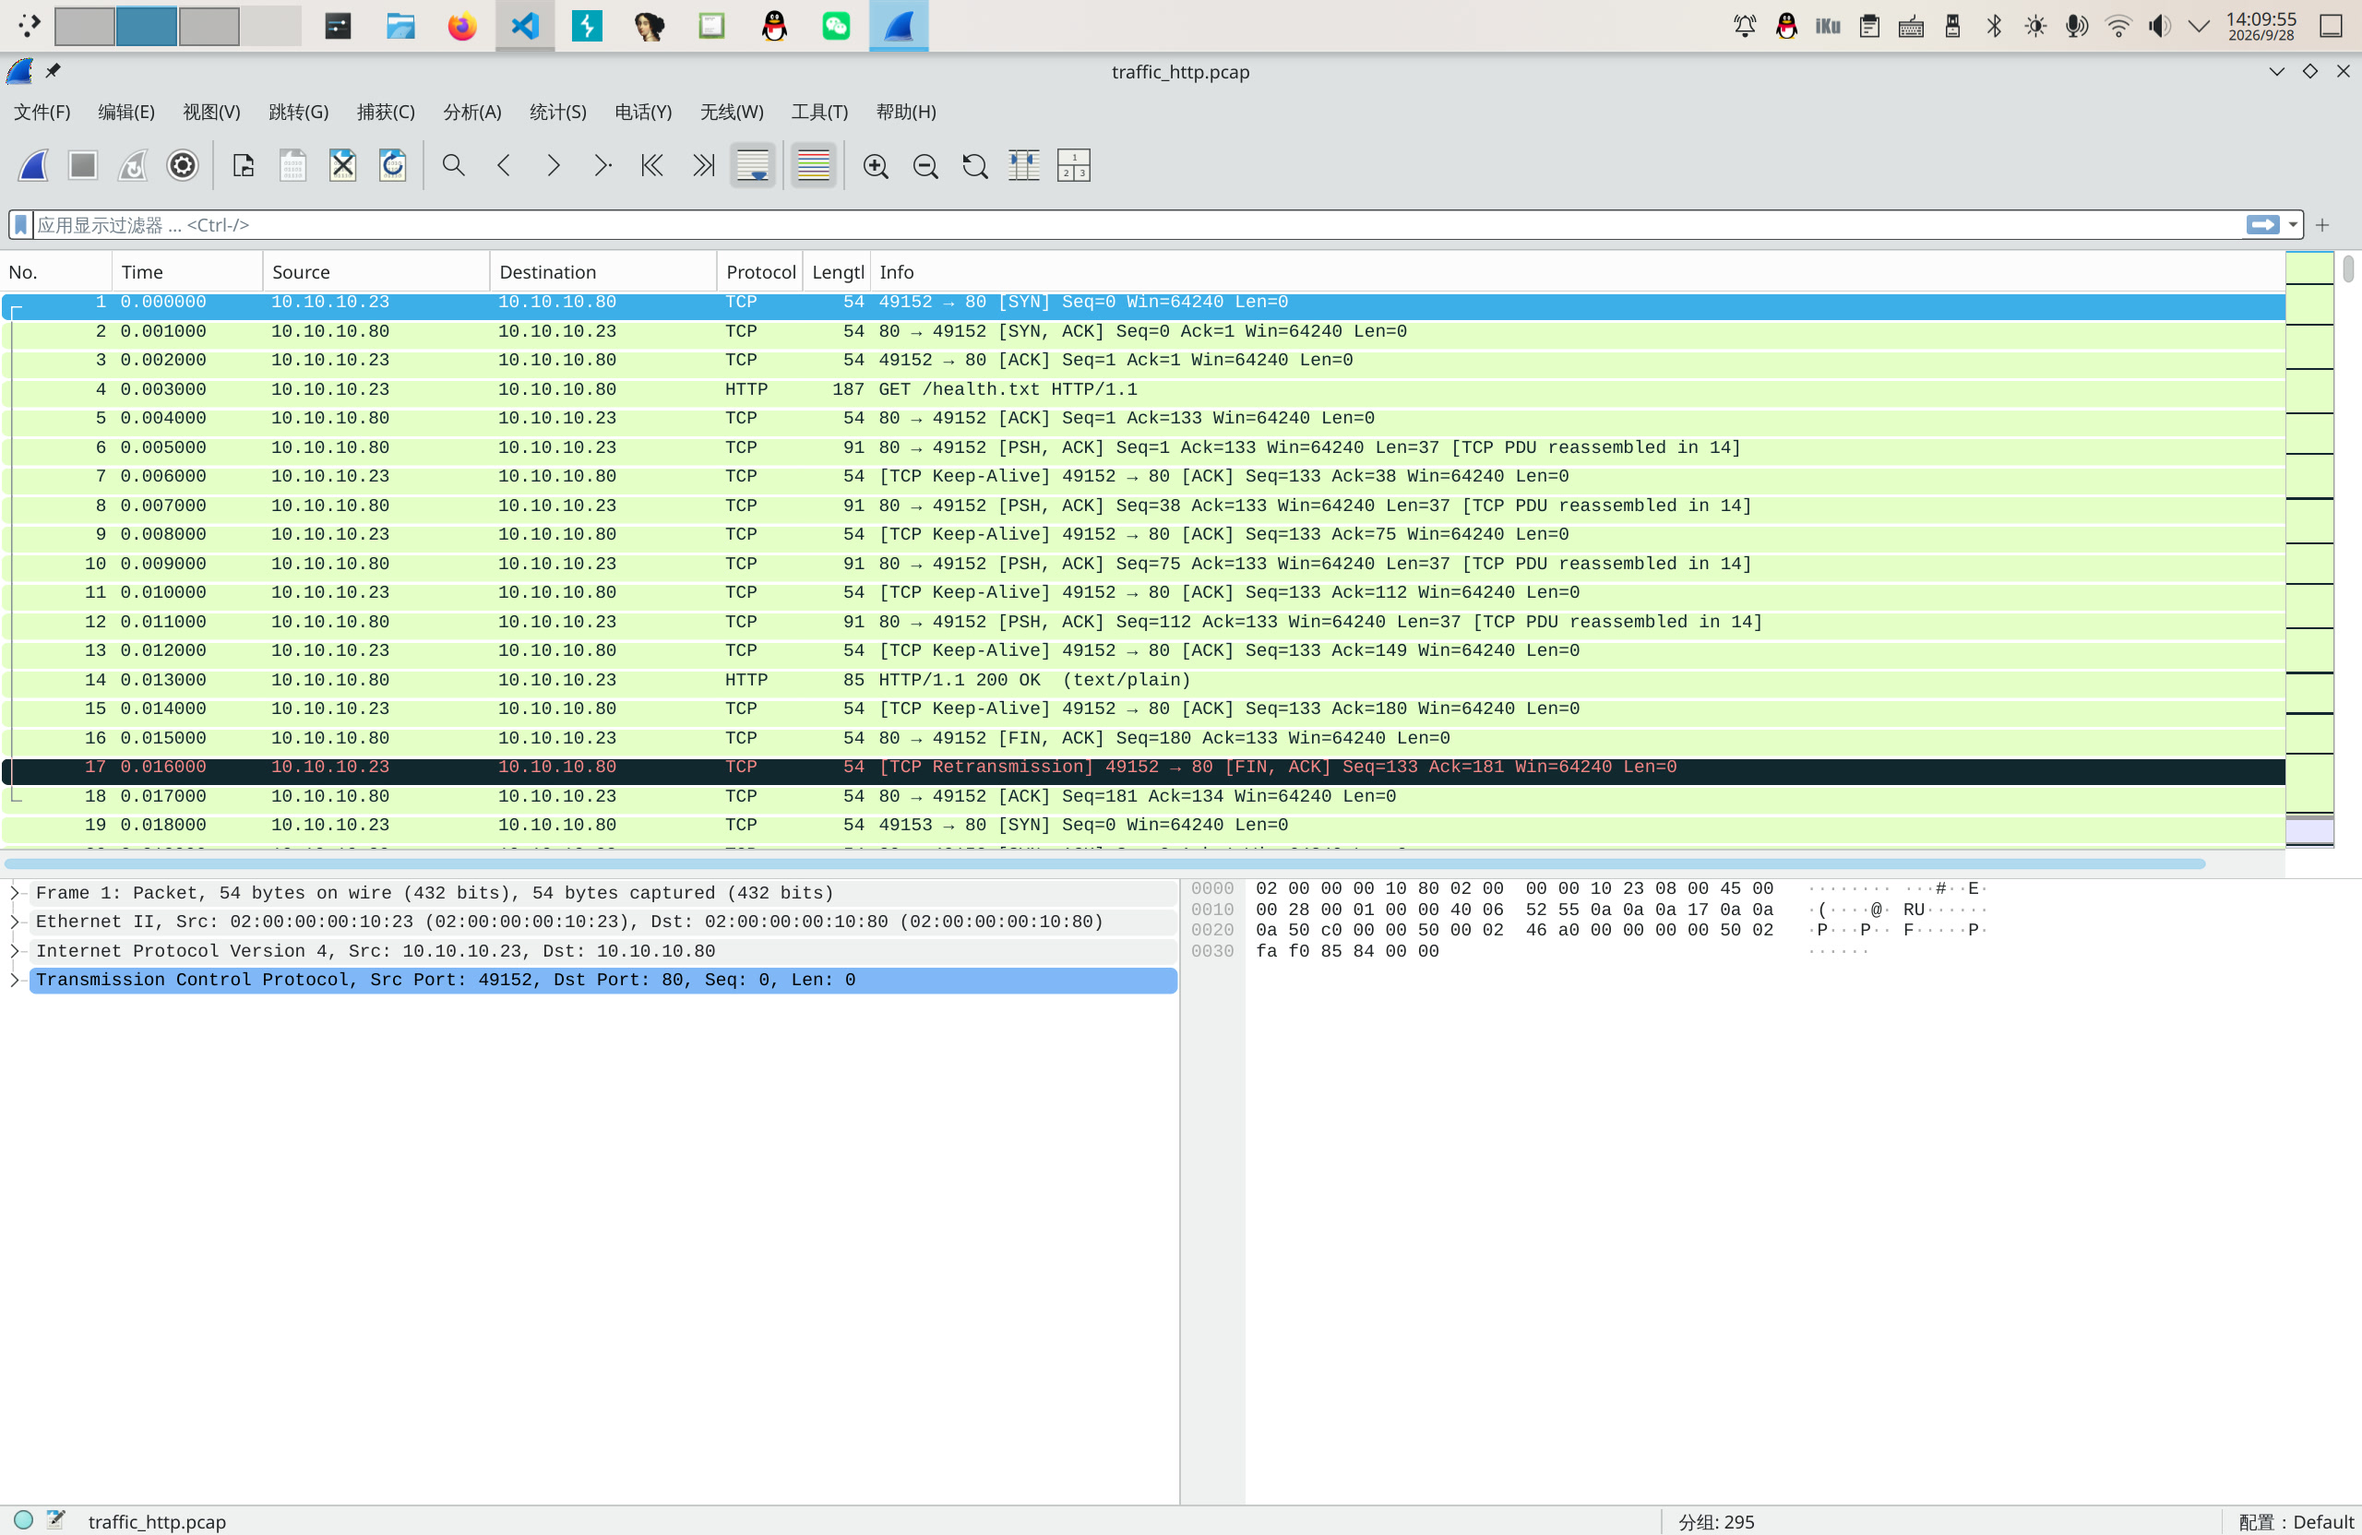
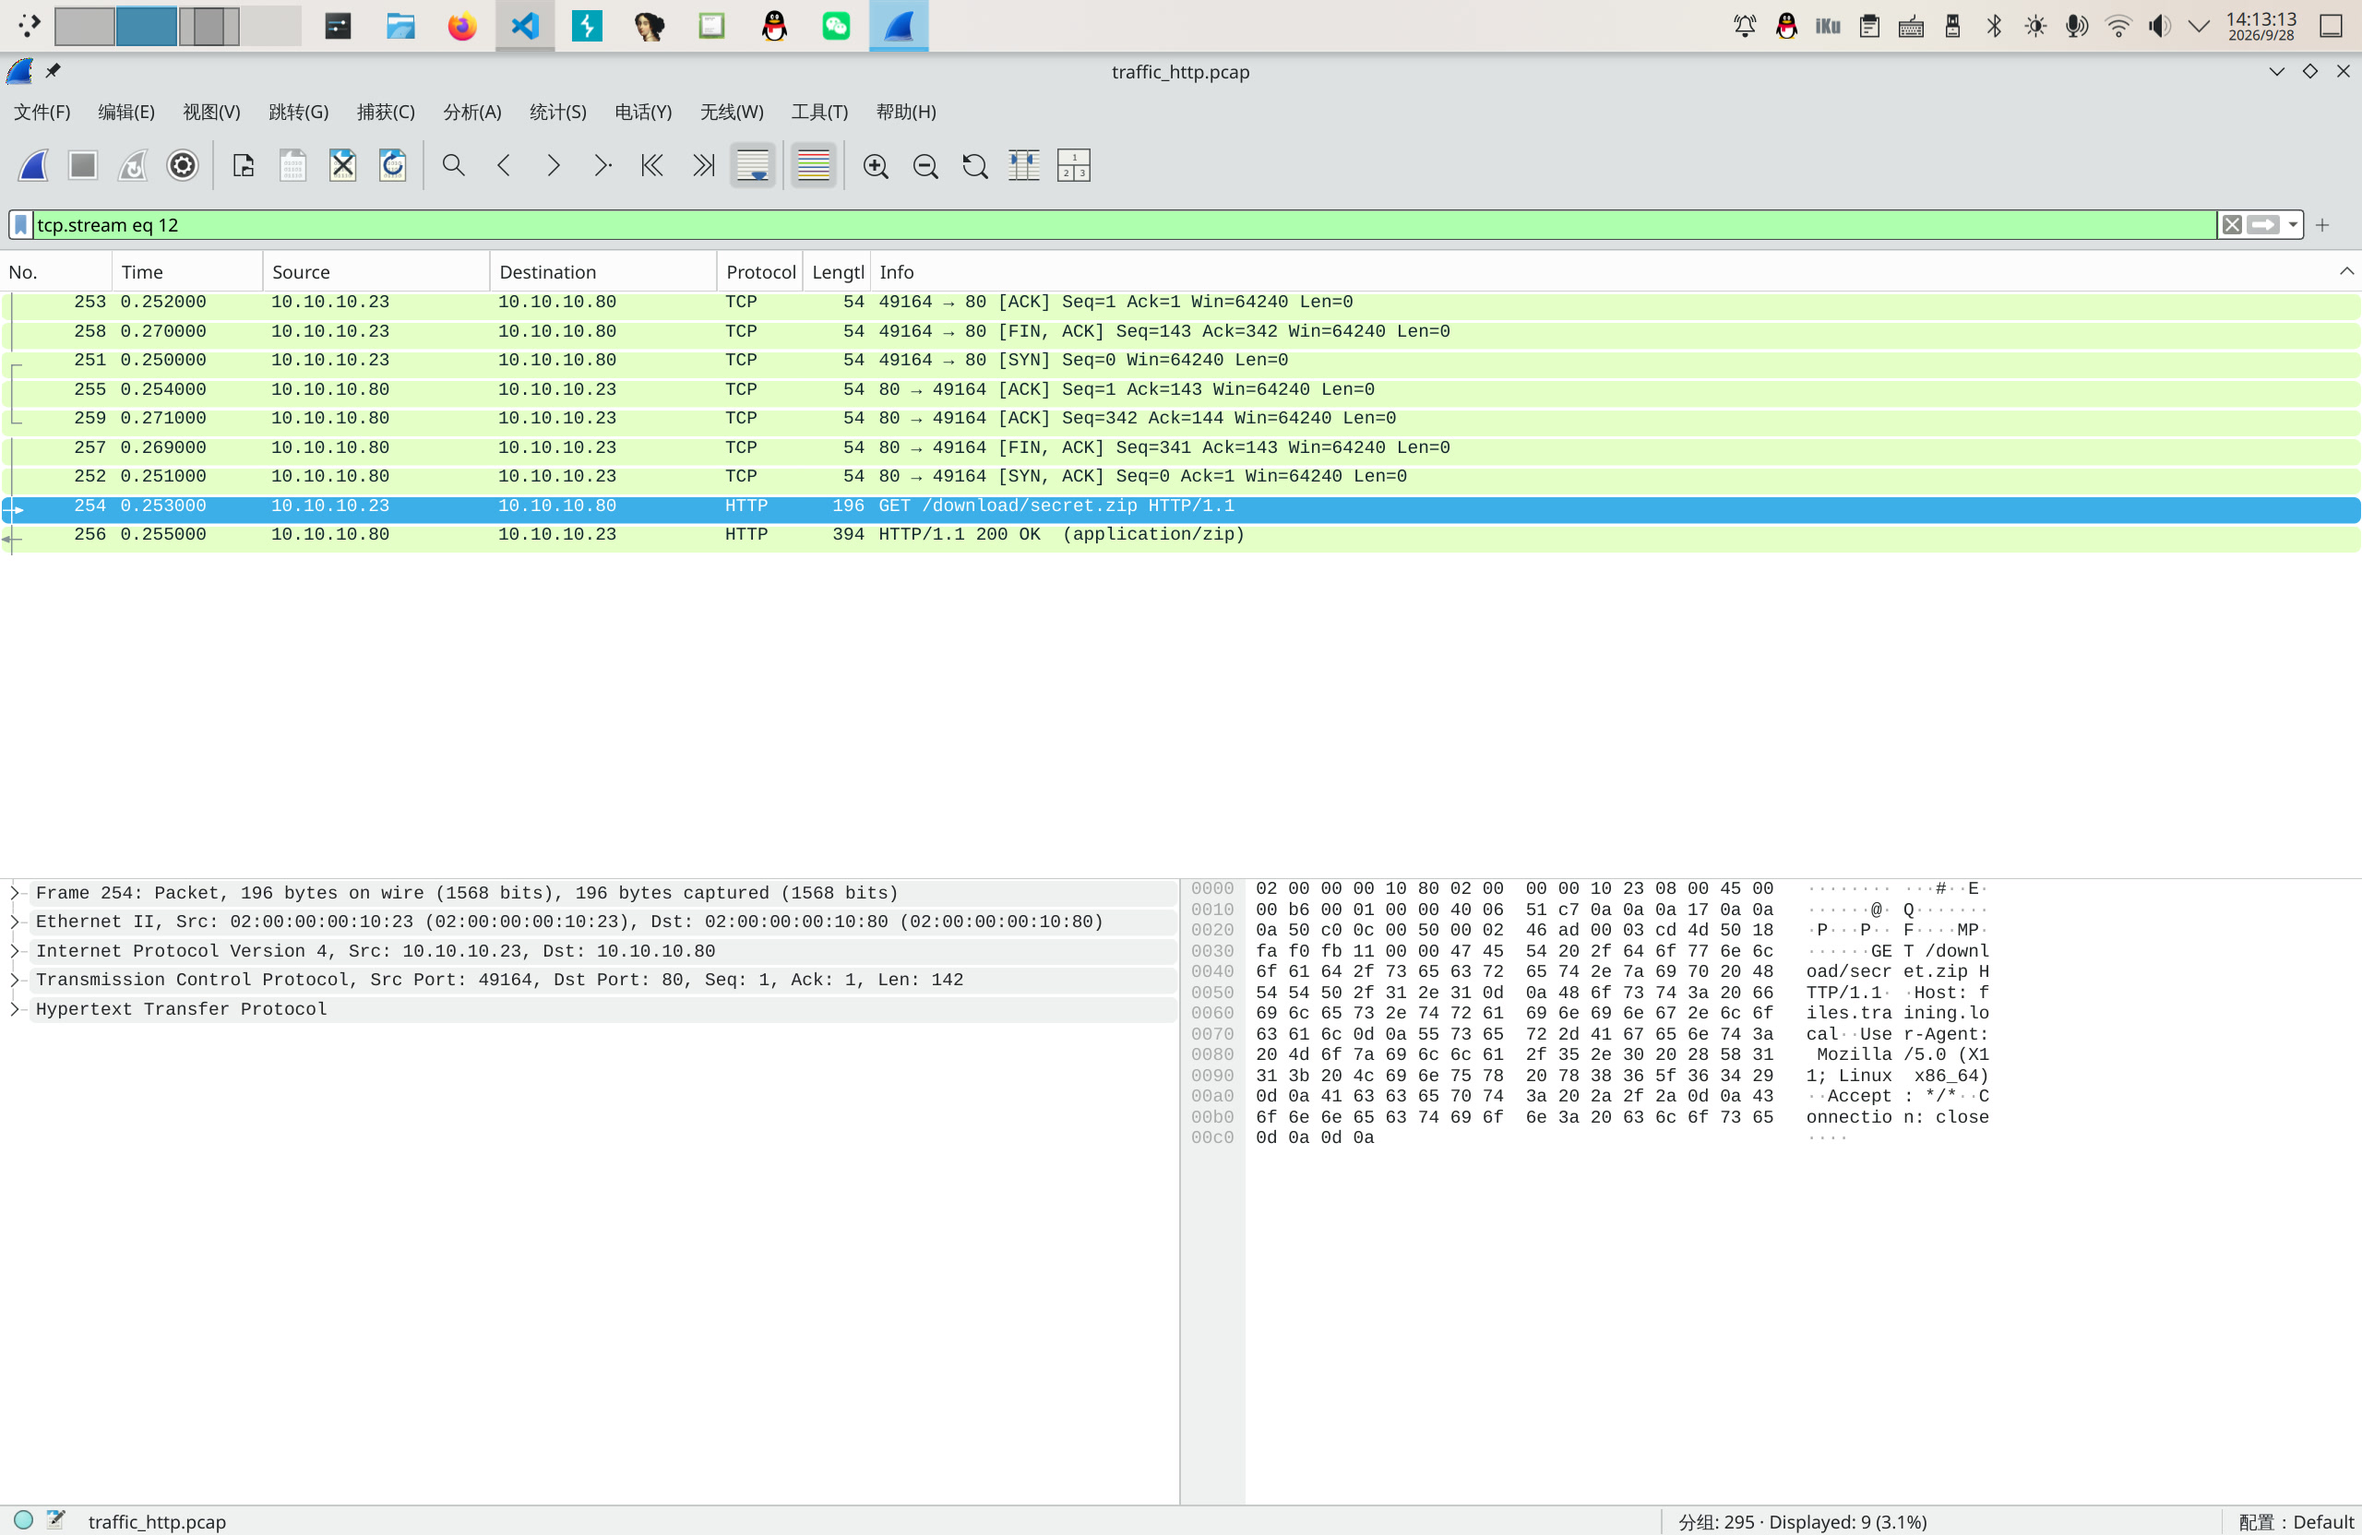
chore: commit after handin

diff --git a/week1/reverse/1/index.md b/week1/reverse/1/index.md
@@ -4,28 +4,12 @@
 
 ![](1.jpg)
 
-可见 `main` 函数里有一个基本的判断输入 flag 是否正确的逻辑。看向类似于 `if` 的分支：
+可见 `main` 函数里有一个基本的判断输入 flag 是否正确的逻辑。看向类似于 `if` 的分支，会发现有一个 `check_input` 函数被调用。转向这个函数，看到判断输入是否正确的依据是 `reference_data` ：
 
 ![](2.jpg)
 
-这里有一个 `check_input` 函数被调用。转向这个函数：
+跳转到这个操作数，得到：
 
 ![](3.jpg)
 
-可以看到判断输入是否正确的依据是 `reference_data` ：
-
-![](4.jpg)
-
-所以双指点按，并跳转到这个操作数：
-
-![](5.jpg)
-
-观察页面：
-
-![](6.jpg)
-
-得到 flag ：
-
-![](7.jpg)
-
-所以答案就是 `0xGame{0pen_1DA_4nd_start_y0ur_reverse_Engineering!}` 。
+所以 flag 就是 `0xGame{0pen_1DA_4nd_start_y0ur_reverse_Engineering!}` 。

diff --git a/week1/misc/1/index.md b/week1/misc/1/index.md
@@ -1,12 +1,8 @@
 # ez_traffic
 
-用 Wireshark 打开 `.pcap` ：
+用 Wireshark 打开 `.pcap` ， `http` 过滤，一眼望去：
 
 ![](1.jpg)
-
-用 `http` 过滤，一眼望去：
-
-![](2.jpg)
 
 `secret.zip` 要素察觉。
 

diff --git a/week1/misc/5/index.md b/week1/misc/5/index.md
@@ -163,6 +163,6 @@ with open("fixed.png","wb") as out:
     out.write(buf)
 ```
 
-运行后得到：
+运行后得到（这里为了压缩 PDF ，后来被我用 `ffmpeg` 转成了 JPG）：
 
-![](fixed.png)
+![](fixed.jpg)

diff --git a/week1/reverse/2/index.md b/week1/reverse/2/index.md
@@ -4,17 +4,9 @@
 
 IDA 打开康康……
 
-![](1.jpg)
-
 ![](2.jpg)
 
-![](3.jpg)
-
-![](4.jpg)
-
 看看 Segments ：
-
-![](5.jpg)
 
 ![](6.jpg)
 

diff --git a/week1/misc/7/index.md b/week1/misc/7/index.md
@@ -42,4 +42,4 @@
 
 被传送到一间屋子，墙壁上写有 flag（据测试，不同容器的 flag 不同）：
 
-![](9.png)
+![](9.jpg)
